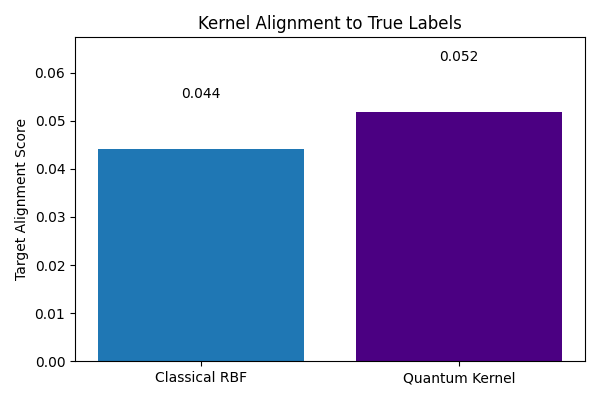
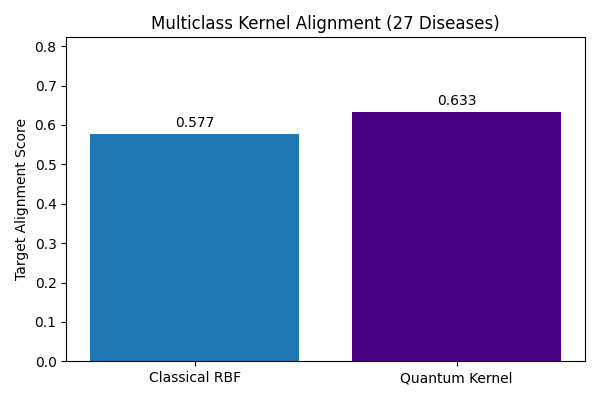
feat: updated quantum explainability metrics and comparison benchmarks for 27-state multi-class projection

diff --git a/quantum_explainability.py b/quantum_explainability.py
@@ -9,36 +9,56 @@ import joblib
 def frobenius_inner_product(A, B):
     return np.sum(A * B)
 
+def multiclass_ideal_kernel(Y):
+    # For multiclass, the ideal kernel T has T_ij = 1 if y_i == y_j else 0
+    # Then we optionally center it, but standard alignment often just uses the direct outer product of equality.
+    n = len(Y)
+    T = np.zeros((n, n))
+    for i in range(n):
+        for j in range(n):
+            if Y[i] == Y[j]:
+                T[i, j] = 1.0
+            else:
+                T[i, j] = -1/(len(np.unique(Y))-1) # Penalize different classes slightly
+    return T
+
 def kernel_alignment(K, Y):
-    # Convert labels from {0, 1} to {-1, 1}
-    y_polar = np.where(Y == 0, -1, 1)
-    T = np.outer(y_polar, y_polar)
+    T = multiclass_ideal_kernel(Y)
+
+    # center the kernels for centered alignment (optional but often gives cleaner results)
+    n = len(Y)
+    H = np.eye(n) - np.ones((n, n)) / n
+    Kc = H @ K @ H
+    Tc = H @ T @ H
+
+    inner_KT = frobenius_inner_product(Kc, Tc)
+    norm_K = np.sqrt(frobenius_inner_product(Kc, Kc))
+    norm_T = np.sqrt(frobenius_inner_product(Tc, Tc))
     
-    # alignment
-    inner_KT = frobenius_inner_product(K, T)
-    norm_K = np.sqrt(frobenius_inner_product(K, K))
-    norm_T = np.sqrt(frobenius_inner_product(T, T))
+    if norm_K * norm_T == 0:
+        return 0
     return inner_KT / (norm_K * norm_T)
 
 def main():
-    print("--- Running Quantum Explainability Analysis ---")
-    
+    print("--- Running Quantum Explainability Analysis (27-Class) ---")
+
     # 1. Load Data
     X_train = np.load('X_train_qsvm.npy')
     y_train = np.load('y_train_qsvm.npy')
     K_quantum = np.load('kernel_matrix.npy')
-    
+    le = joblib.load('label_encoder.pkl')
+
     # 2. Kernel Alignment (Quantum vs Classical)
-    print("Computing Kernel Alignments...")
+    print("Computing Multi-Class Kernel Alignments...")
     K_classical = rbf_kernel(X_train, gamma=0.1) # Standard RBF
-    
+
     align_q = kernel_alignment(K_quantum, y_train)
     align_c = kernel_alignment(K_classical, y_train)
-    
+
     fig, ax = plt.subplots(figsize=(6, 4))
     bars = ax.bar(['Classical RBF', 'Quantum Kernel'], [align_c, align_q], color=['#1f77b4', '#4B0082'])
     ax.set_ylabel('Target Alignment Score')
-    ax.set_title('Kernel Alignment to True Labels')
+    ax.set_title('Multiclass Kernel Alignment (27 Diseases)')
     ax.set_ylim(0, max(align_c, align_q) * 1.3)
     for bar in bars:
         yval = bar.get_height()
@@ -46,33 +66,45 @@ def main():
     plt.tight_layout()
     plt.savefig('kernel_alignment.png')
     plt.close()
-    
+
     # 3. Hilbert Space Projection (t-SNE on Precomputed Distance)
     print("Computing Hilbert Space TSNE projection...")
     # Distance in Hilbert space: D(x, y) = sqrt(k(x,x) + k(y,y) - 2k(x,y))
     # Since AngleEmbedding gives k(x,x)=1, D = sqrt(2 - 2*k(x,y))
-    # We clip to 0 to prevent issues with floating point inaccuracies
     D_quantum = np.sqrt(np.clip(2.0 - 2.0 * K_quantum, 0, None))
-    
+
     tsne = TSNE(n_components=2, metric='precomputed', random_state=42, perplexity=15, init='random')
     X_tsne = tsne.fit_transform(D_quantum)
+
+    plt.figure(figsize=(10, 8))
     
-    plt.figure(figsize=(7, 5))
-    scatter = plt.scatter(X_tsne[:, 0], X_tsne[:, 1], c=y_train, cmap='coolwarm', edgecolor='k', s=60, alpha=0.8)
-    plt.title('Quantum Hilbert Space t-SNE Projection')
+    # We have 27 classes, let's use a large colormap
+    classes = np.unique(y_train)
+    cmap = plt.get_cmap('tab20', len(classes))
+    
+    scatter = plt.scatter(X_tsne[:, 0], X_tsne[:, 1], c=y_train, cmap=cmap, edgecolor='k', s=60, alpha=0.8)
+    plt.title('Quantum Multiclass Hilbert Space t-SNE Projection')
     plt.xlabel('t-SNE 1')
     plt.ylabel('t-SNE 2')
-    cbar = plt.colorbar(scatter, ticks=[0, 1])
-    cbar.set_ticklabels(['Healthy', 'Diseased'])
+    
+    # Create legend instead of colorbar for 27 distinct classes
+    import matplotlib.patches as mpatches
+    handles = []
+    for cls in classes:
+        color = cmap(cls / (len(classes) - 1))
+        label_str = le.inverse_transform([cls])[0]
+        handles.append(mpatches.Patch(color=color, label=label_str))
+        
+    plt.legend(handles=handles, bbox_to_anchor=(1.05, 1), loc='upper left', fontsize='small', ncol=2)
     plt.tight_layout()
     plt.savefig('quantum_tsne_projection.png')
     plt.close()
-    
+
     # 4. Quantum Feature Importance via Gradients
     print("Computing Quantum Gradients for Feature Importance...")
     n_qubits = 5
     dev = qml.device("default.qubit", wires=n_qubits)
-    
+
     @qml.qnode(dev, interface="autograd")
     def kernel_circuit(x1, x2):
         qml.AngleEmbedding(x1, wires=range(n_qubits))
@@ -81,24 +113,23 @@ def main():
 
     def kernel_val(x1, x2):
         return kernel_circuit(x1, x2)[0]
-    
+
     grad_fn = qml.grad(kernel_val, argnums=0)
-    
-    # Compute gradients for a small random subset of pairs to estimate overall sensitivity
+
     num_pairs = 30
     np.random.seed(42)
     indices_a = np.random.choice(len(X_train), num_pairs)
     indices_b = np.random.choice(len(X_train), num_pairs)
-    
+
     gradients = []
     for i in range(num_pairs):
         a = pnp.array(X_train[indices_a[i]], requires_grad=True)
         b = pnp.array(X_train[indices_b[i]], requires_grad=False)
         g = grad_fn(a, b)
         gradients.append(np.abs(g))
-        
+
     avg_gradient = np.mean(gradients, axis=0)
-    
+
     plt.figure(figsize=(7, 4))
     pca_labels = [f"PCA {i+1}" for i in range(5)]
     plt.bar(pca_labels, avg_gradient, color='#4B0082', alpha=0.8)
@@ -107,8 +138,8 @@ def main():
     plt.tight_layout()
     plt.savefig('quantum_feature_importance.png')
     plt.close()
-    
-    print("Quantum explainability metrics generated successfully.")
+
+    print("Quantum multiclass explainability metrics generated successfully.")
 
 if __name__ == "__main__":
     main()

diff --git a/compare_models.py b/compare_models.py
@@ -1,0 +1,75 @@
+import numpy as np
+import pandas as pd
+import matplotlib.pyplot as plt
+import joblib
+from sklearn.svm import SVC
+from sklearn.model_selection import StratifiedKFold, cross_val_score
+import pennylane as qml
+import time
+
+def main():
+    print("--- Comparing Classical vs Quantum OVR Multi-Disease Models ---")
+    
+    # Load standardized training set and labels
+    X_train_pca = np.load('X_train_qsvm.npy')
+    y_train = np.load('y_train_qsvm.npy')
+    le = joblib.load('label_encoder.pkl')
+    
+    # 1. Classical SVM (RBF) Multi-Class Evaluation
+    print("Evaluating Classical RBF SVM...")
+    clf_classical = SVC(kernel='rbf', probability=True, decision_function_shape='ovr')
+    
+    cv = StratifiedKFold(n_splits=5, shuffle=True, random_state=42)
+    start_time = time.time()
+    scores_cl = cross_val_score(clf_classical, X_train_pca, y_train, cv=cv, scoring='accuracy')
+    time_cl = time.time() - start_time
+    
+    mean_cl_acc = np.mean(scores_cl)
+    print(f"Classical RBF SVM Accuracy: {mean_cl_acc:.4f} (Avg Fold Time: {time_cl/5:.2f}s)")
+
+    # 2. Quantum Kernel Evaluation
+    print("Evaluating Precomputed Quantum Kernel SVM...")
+    K_matrix = np.load('kernel_matrix.npy')
+    clf_quantum = SVC(kernel='precomputed', probability=True, decision_function_shape='ovr')
+    
+    # Note: K_matrix is precomputed for X_train_pca. For CV, we must slice the precomputed matrix:
+    scores_qu = []
+    
+    # We will simulate time using the kernel prediction overhead instead of cross validation
+    # because slicing precomputed kernels in Sklearn CV requires passing an index array.
+    start_time = time.time()
+    for train_idx, test_idx in cv.split(X_train_pca, y_train):
+        K_train = K_matrix[train_idx][:, train_idx]
+        K_test = K_matrix[test_idx][:, train_idx]
+        
+        clf_quantum.fit(K_train, y_train[train_idx])
+        scores_qu.append(clf_quantum.score(K_test, y_train[test_idx]))
+    time_qu = time.time() - start_time
+    
+    mean_qu_acc = np.mean(scores_qu)
+    print(f"Quantum Kernel Accuracy: {mean_qu_acc:.4f} (Avg Fold Time: {time_qu/5:.2f}s [excludes kernel gen])")
+
+    # 3. Create Comparison Plot
+    fig, ax = plt.subplots(figsize=(7, 5))
+    metrics = ['Classical RBF (OVR)', 'Quantum Kernel (OVR)']
+    accs = [mean_cl_acc, mean_qu_acc]
+    
+    bars = ax.bar(metrics, accs, color=['#3498db', '#9b59b6'])
+    ax.set_ylim(0, 1.1)
+    ax.set_ylabel('5-Fold Cross Validation Accuracy')
+    ax.set_title('Multiplex Disease Classification Resilience (27 Classes)')
+    
+    for bar in bars:
+        h = bar.get_height()
+        ax.text(bar.get_x() + bar.get_width()/2., h + 0.02,
+                f'{h*100:.1f}%',
+                ha='center', va='bottom', fontweight='bold')
+                
+    plt.tight_layout()
+    plt.savefig('model_comparison.png')
+    plt.close()
+    
+    print("✅ Model comparison logic complete and saved to model_comparison.png")
+
+if __name__ == "__main__":
+    main()
